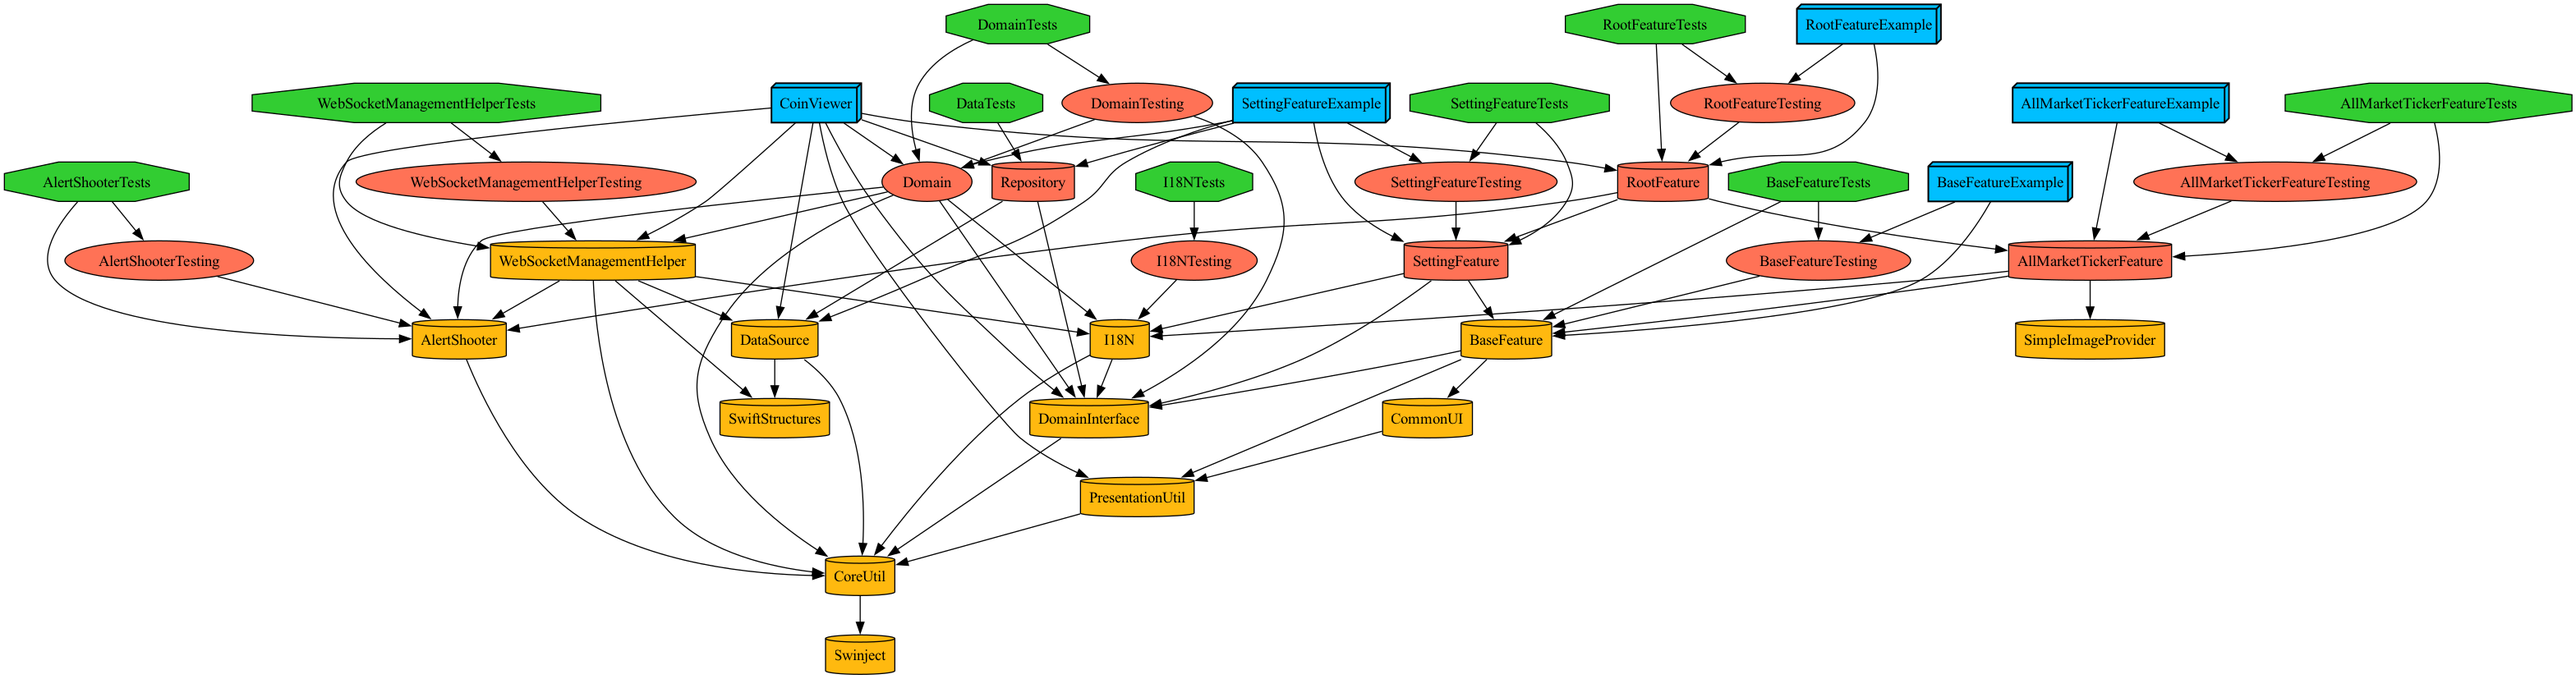
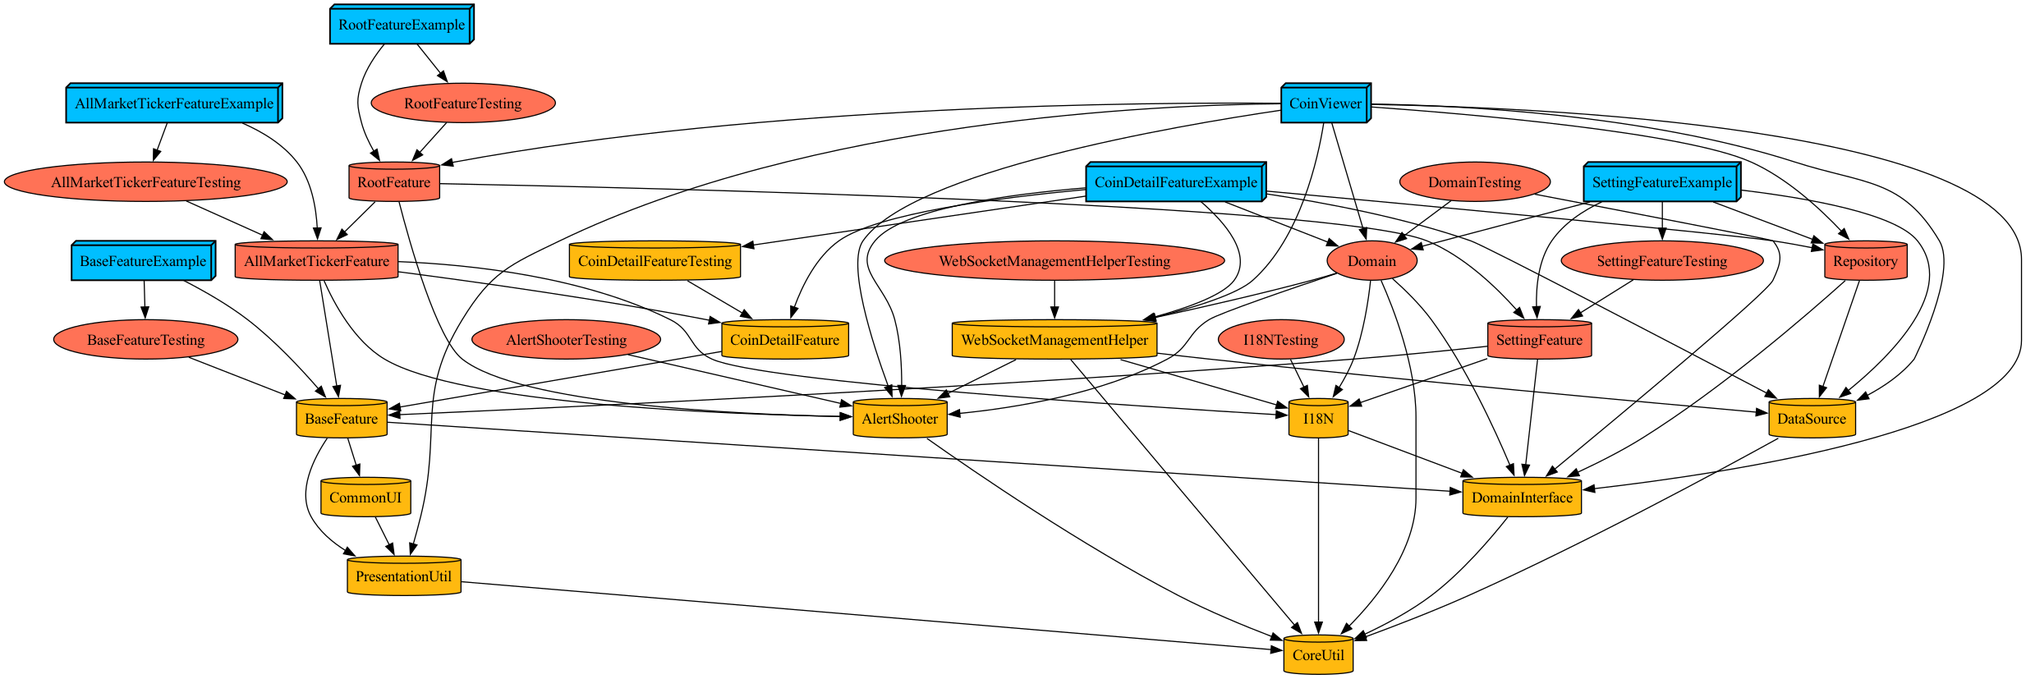
[CVW-036] Fix, 코인 디테일 화면 스켈레톤 UI구현

diff --git a/Projects/Features/CoinDetail/Feature/Sources/CoinDetailPageViewModel.swift b/Projects/Features/CoinDetail/Feature/Sources/CoinDetailPageViewModel.swift
@@ -48,6 +48,7 @@ final class CoinDetailPageViewModel: UDFObservableObject, CoinDetailPageViewMode
     private let symbolInfo: CoinSymbolInfo
     private var symbolPair: String { symbolInfo.pairSymbol }
     private var hasAppeared = false
+    private let orderbookRowCount: Int = 15
     private let bidStore: OrderbookStore = .init()
     private let askStore: OrderbookStore = .init()
     private let tradeContainer: TradeContainer = .init(maxCount: 15)
@@ -66,7 +67,10 @@ final class CoinDetailPageViewModel: UDFObservableObject, CoinDetailPageViewMode
     init(symbolInfo: CoinSymbolInfo, useCase: CoinDetailPageUseCase) {
         self.symbolInfo = symbolInfo
         self.useCase = useCase
-        self.state = .init(symbolText: symbolInfo.pairSymbol.uppercased())
+        self.state = .init(
+            symbolText: symbolInfo.pairSymbol.uppercased(),
+            fixedOrderbookRowCount: orderbookRowCount
+        )
         
         createStateStream()
     }
@@ -187,8 +191,8 @@ private extension CoinDetailPageViewModel {
                 await vm.apply(asks: update.asks)
                 
                 // - 리스트 추출
-                let bidList = await vm.bidStore.getDescendingList(count: 15).map(Orderbook.init)
-                let askList = await vm.askStore.getAscendingList(count: 15).map(Orderbook.init)
+                let bidList = await vm.bidStore.getDescendingList(count: vm.orderbookRowCount).map(Orderbook.init)
+                let askList = await vm.askStore.getAscendingList(count: vm.orderbookRowCount).map(Orderbook.init)
                 return Action.updateOrderbook(bids: bidList, asks: askList)
             }
             .subscribe(self.action)
@@ -289,19 +293,28 @@ private extension CoinDetailPageViewModel {
 extension CoinDetailPageViewModel {
     struct State {
         // 24h ticker
-        var symbolText: String
+        let symbolText: String
         var priceChagePercentInfo: PriceChangePercentRO?
         var tickerInfo: TickerInfo?
         
         // Orderbook table
+        let fixedOrderbookRowCount: Int
         var bidOrderbooks: [OrderbookCellRO] = []
         var askOrderbooks: [OrderbookCellRO] = []
         
         // Recent trade
         var trades: [CoinTradeRO] = []
         
-        init(symbolText: String) {
+        // View Loading
+        var isLoad: Bool {
+            tickerInfo != nil &&
+            !bidOrderbooks.isEmpty &&
+            !askOrderbooks.isEmpty
+        }
+        
+        init(symbolText: String, fixedOrderbookRowCount: Int) {
             self.symbolText = symbolText
+            self.fixedOrderbookRowCount = fixedOrderbookRowCount
         }
     }
 }

diff --git a/Projects/Features/CoinDetail/Feature/Sources/Views/CoinDetailPageView.swift b/Projects/Features/CoinDetail/Feature/Sources/Views/CoinDetailPageView.swift
@@ -7,6 +7,8 @@
 
 import SwiftUI
 
+import CommonUI
+
 struct CoinDetailPageView: View {
     @Environment(\.scenePhase) var scenePhase
     @StateObject var viewModel: CoinDetailPageViewModel
@@ -66,6 +68,7 @@ struct CoinDetailPageView: View {
     @ViewBuilder
     private func tickerChangeInfoContent() -> some View {
         TickerChangeInfoView(info: $viewModel.state.tickerInfo)
+            .skeleton(presentOrigin: viewModel.state.isLoad)
     }
     
     @ViewBuilder
@@ -100,11 +103,15 @@ struct CoinDetailPageView: View {
                     }
                 }
             }
+            .frame(height: CGFloat(viewModel.state.fixedOrderbookRowCount*30))
         }
+        .skeleton(presentOrigin: viewModel.state.isLoad)
     }
     
     @ViewBuilder
     private func recentTradeContent() -> some View {
         RecentTradeTableView(trades: $viewModel.state.trades)
+            .frame(minHeight: 150)
+            .skeleton(presentOrigin: viewModel.state.isLoad)
     }
 }

diff --git a/Projects/Shared/DSKit/CommonUI/Sources/Modifier/SkeletonAdapter.swift b/Projects/Shared/DSKit/CommonUI/Sources/Modifier/SkeletonAdapter.swift
@@ -1,0 +1,27 @@
+//
+//  SkeletonAdapter.swift
+//  CommonUI
+//
+//  Created by choijunios on 4/18/25.
+//
+
+import SwiftUI
+
+public struct SkeletonWrapper: ViewModifier {
+    var presentOrigin: Bool
+    public func body(content: Content) -> some View {
+        content
+            .opacity(presentOrigin ? 1 : 0)
+            .background {
+                SkeletonUI()
+                    .opacity(presentOrigin ? 0 : 1)
+            }
+    }
+}
+
+public extension View {
+    func skeleton(presentOrigin: Bool) -> some View {
+        self
+            .modifier(SkeletonWrapper(presentOrigin: presentOrigin))
+    }
+}
